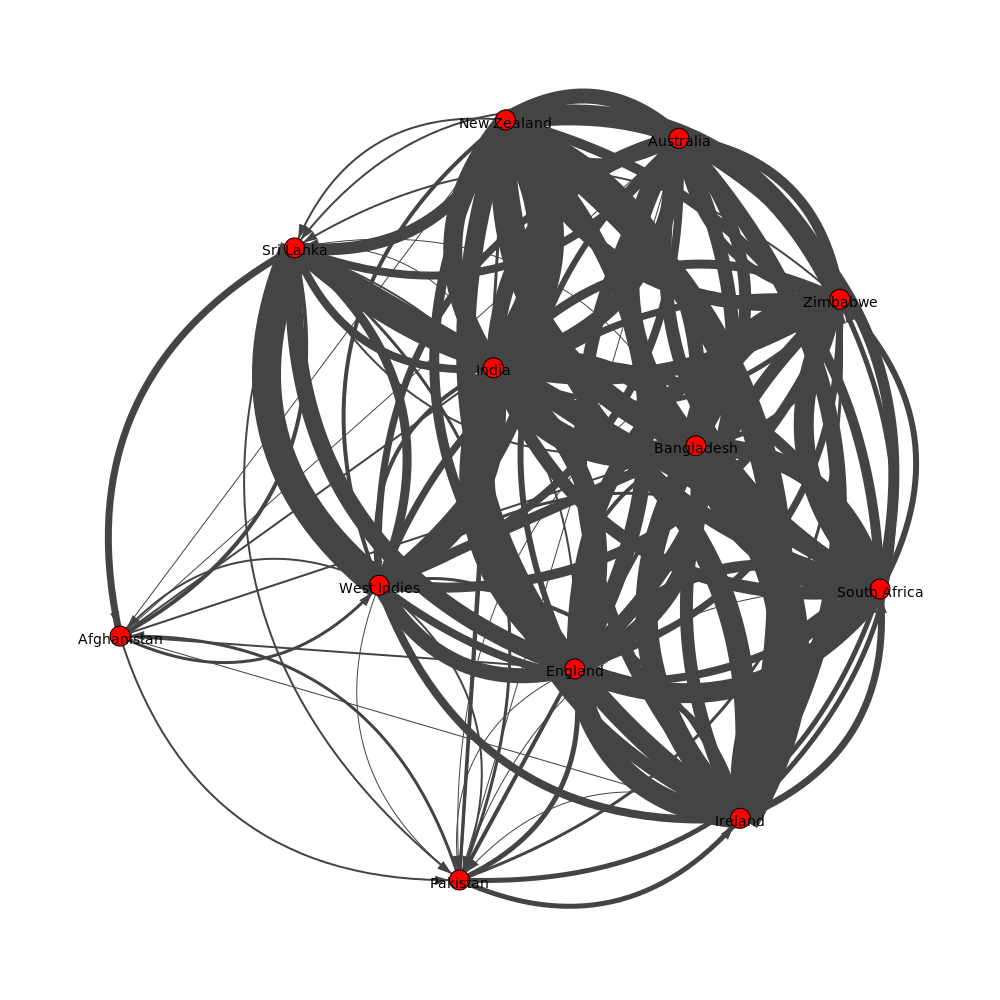
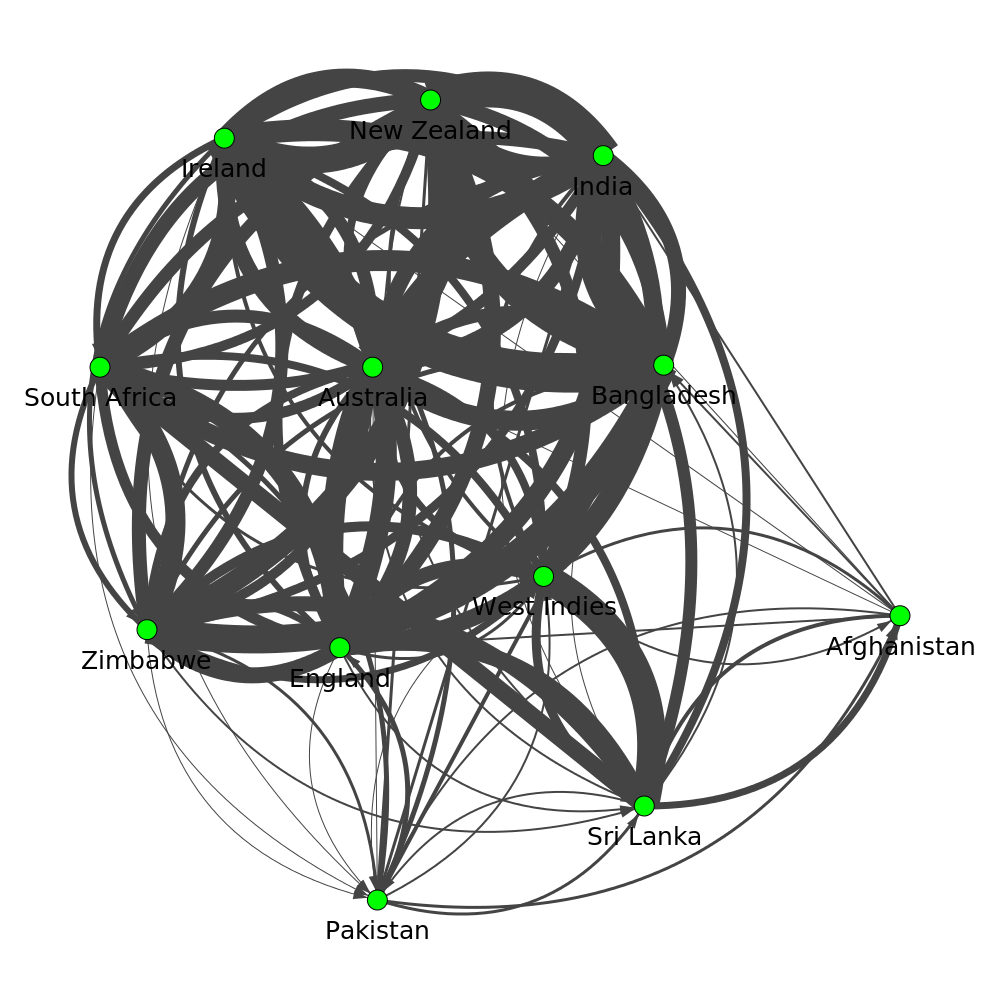
test

diff --git a/src/igraph_wpr.py b/src/igraph_wpr.py
@@ -46,8 +46,8 @@ def save_graph(g, layoutname = "fruchterman_reingold"):
     if layoutname == "kk":
         g.write_svg("newgraph.svg", labels = "name" , layout = g.layout(layoutname))
     else:
-        igraph.plot(g, 'newgraph.png', layout=g.layout(layoutname), bbox=(1000, 1000), margin=120, hovermode='closest', vertex_label = g.vs["name"], edge_width = g.es["weight"])
-
+        igraph.plot(g, 'newgraph.png', layout=g.layout(layoutname), bbox=(1000, 1000), margin= 100, hovermode='closest', vertex_label = g.vs["name"], edge_width = g.es["weight"], vertex_color = "green", vertex_label_dist = 2, vertex_label_size = 25)
+ 
 def create_weight_matrix(method_no):
     if method_no == 1:
         # percentage of matches won 
@@ -124,48 +124,48 @@ for i in range(len(df_train.index)):
     runmatrix[toss_loser_id][toss_winner_id] += df_train.Run1[i]
     runmatrix[toss_winner_id][toss_loser_id] += df_train.Run2[i]
 
-    g = ig.Graph.Full(n = len(teams_id), directed = True)
-    g = g.Weighted_Adjacency(create_weight_matrix(1), mode = "DIRECTED")
-    g.vs["name"] = teams_id.keys()
-    pr1[i] = (g.pagerank(vertices = None, directed = True, damping = 0.85,
-        implementation="power"))
-    # print g.es["weight"]
+g = ig.Graph.Full(n = len(teams_id), directed = True)
+# g = g.Weighted_Adjacency(create_weight_matrix(1), mode = "DIRECTED")
+g = g.Weighted_Adjacency(winmatrix, mode = "DIRECTED")
+g.vs["name"] = teams_id.keys()
+print g.es["weight"]
+# pr1[i] = (g.pagerank(vertices = None, directed = True, damping = 0.85,
+#     implementation="power"))
+save_graph(g)
 
-    # save_graph(g)
+#     g = ig.Graph.Full(n = len(teams_id), directed = True)
+#     g = g.Weighted_Adjacency(create_weight_matrix(2), mode = "DIRECTED")
+#     g.vs["name"] = teams_id.keys()
+#     pr2[i] = (g.pagerank(vertices = None, directed = True, damping = 0.85,
+#         implementation="power"))
 
-    g = ig.Graph.Full(n = len(teams_id), directed = True)
-    g = g.Weighted_Adjacency(create_weight_matrix(2), mode = "DIRECTED")
-    g.vs["name"] = teams_id.keys()
-    pr2[i] = (g.pagerank(vertices = None, directed = True, damping = 0.85,
-        implementation="power"))
+#     g = ig.Graph.Full(n = len(teams_id), directed = True)
+#     g = g.Weighted_Adjacency(create_weight_matrix(3), mode = "DIRECTED")
+#     g.vs["name"] = teams_id.keys()
+#     pr3[i] = (g.pagerank(vertices = None, directed = True, damping = 0.85,
+#         implementation="power"))
 
-    g = ig.Graph.Full(n = len(teams_id), directed = True)
-    g = g.Weighted_Adjacency(create_weight_matrix(3), mode = "DIRECTED")
-    g.vs["name"] = teams_id.keys()
-    pr3[i] = (g.pagerank(vertices = None, directed = True, damping = 0.85,
-        implementation="power"))
+#     g = ig.Graph.Full(n = len(teams_id), directed = True)
+#     g = g.Weighted_Adjacency(create_weight_matrix(4), mode = "DIRECTED")
+#     g.vs["name"] = teams_id.keys()
+#     pr4[i] = (g.pagerank(vertices = None, directed = True, damping = 0.85,
+#         implementation="power"))
 
-    g = ig.Graph.Full(n = len(teams_id), directed = True)
-    g = g.Weighted_Adjacency(create_weight_matrix(4), mode = "DIRECTED")
-    g.vs["name"] = teams_id.keys()
-    pr4[i] = (g.pagerank(vertices = None, directed = True, damping = 0.85,
-        implementation="power"))
+#     g = ig.Graph.Full(n = len(teams_id), directed = True)
+#     g = g.Weighted_Adjacency(create_weight_matrix(4), mode = "DIRECTED")
+#     g.vs["name"] = teams_id.keys()
+#     pr4[i] = (g.pagerank(vertices = None, directed = True, damping = 0.85,
+#         implementation="power"))
 
-    g = ig.Graph.Full(n = len(teams_id), directed = True)
-    g = g.Weighted_Adjacency(create_weight_matrix(4), mode = "DIRECTED")
-    g.vs["name"] = teams_id.keys()
-    pr4[i] = (g.pagerank(vertices = None, directed = True, damping = 0.85,
-        implementation="power"))
+#     g = ig.Graph.Full(n = len(teams_id), directed = True)
+#     g = g.Weighted_Adjacency(create_weight_matrix(5), mode = "DIRECTED")
+#     g.vs["name"] = teams_id.keys()
+#     pr5[i] = (g.pagerank(vertices = None, directed = True, damping = 0.85,
+#         implementation="power"))
+#     # print weight_matrix
 
-    g = ig.Graph.Full(n = len(teams_id), directed = True)
-    g = g.Weighted_Adjacency(create_weight_matrix(5), mode = "DIRECTED")
-    g.vs["name"] = teams_id.keys()
-    pr5[i] = (g.pagerank(vertices = None, directed = True, damping = 0.85,
-        implementation="power"))
-    # print weight_matrix
-
-print "Accuracy for Weighting function 1 : ", (1 - rolling_validate(pr1, start_index, end_index))
-print "Accuracy for Weighting function 2 :", (1 - rolling_validate(pr2, start_index, end_index))
-print "Accuracy for Weighting function 3 :", (1 - rolling_validate(pr3, start_index, end_index))
-print "Accuracy for Weighting function 4 :", (1 - rolling_validate(pr4, start_index, end_index))
-print "Accuracy for Weighting function 5 :", (1 - rolling_validate(pr5, start_index, end_index))
+# print "Accuracy for Weighting function 1 : ", (1 - rolling_validate(pr1, start_index, end_index))
+# print "Accuracy for Weighting function 2 :", (1 - rolling_validate(pr2, start_index, end_index))
+# print "Accuracy for Weighting function 3 :", (1 - rolling_validate(pr3, start_index, end_index))
+# print "Accuracy for Weighting function 4 :", (1 - rolling_validate(pr4, start_index, end_index))
+# print "Accuracy for Weighting function 5 :", (1 - rolling_validate(pr5, start_index, end_index))
